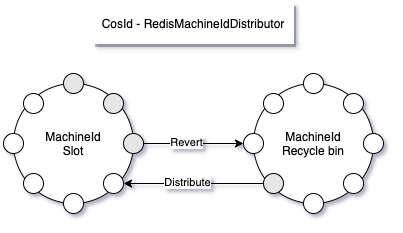
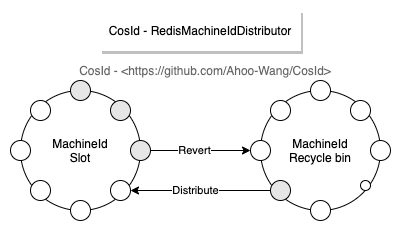
add SegmentId design diagram

Changed region(s): [[0.0, 0.2727, 0.9875, 0.9697], [0.2394, 0.0303, 0.7781, 0.2424], [0.0898, 0.5455, 0.2693, 0.7273]]

diff --git a/README.zh-CN.md b/README.zh-CN.md
@@ -203,7 +203,7 @@ public interface SnowflakeFriendlyId extends SnowflakeId {
 
 ## SegmentId (号段模式)
 
-![SegmentId-Timeline](./docs/SegmentId-Timeline.png)
+![SegmentId](./docs/SegmentId.png)
 
 ### RedisIdSegmentDistributor (使用`Redis`作为号段分发后端存储)
 

diff --git a/README.md b/README.md
@@ -199,7 +199,7 @@ public interface SnowflakeFriendlyId extends SnowflakeId {
 ```
 ## SegmentId
 
-![SegmentId-Timeline](./docs/SegmentId-Timeline.png)
+![SegmentId](./docs/SegmentId.png)
 
 ### RedisIdSegmentDistributor
 
